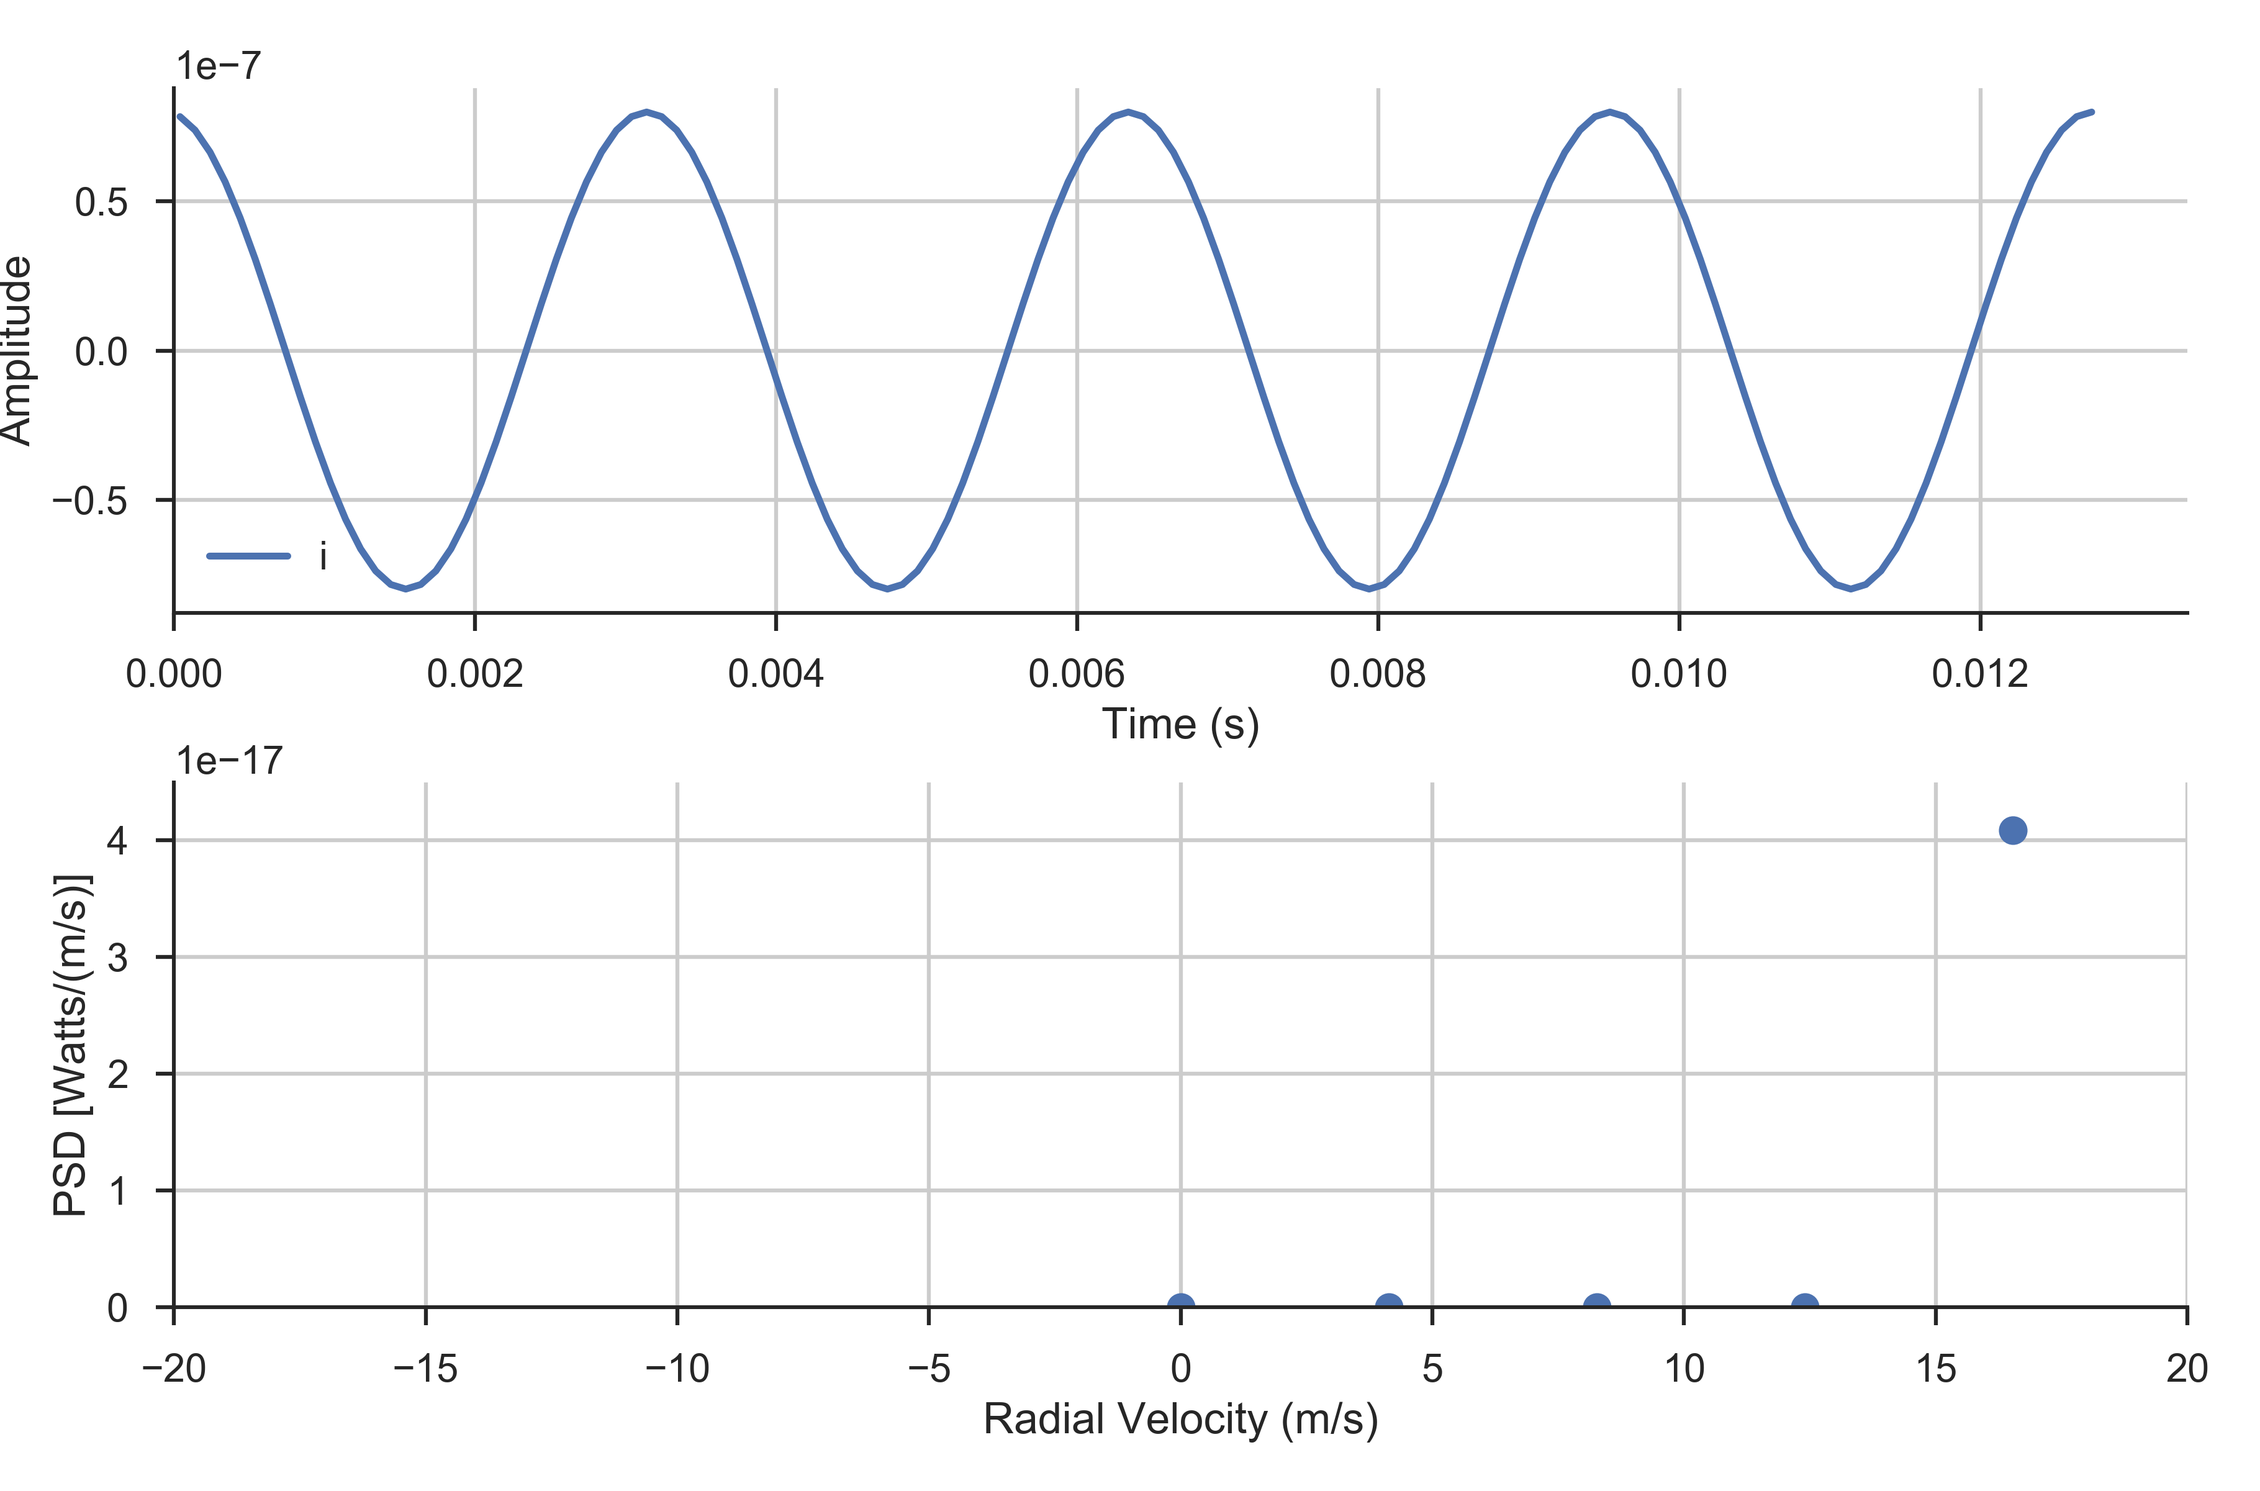
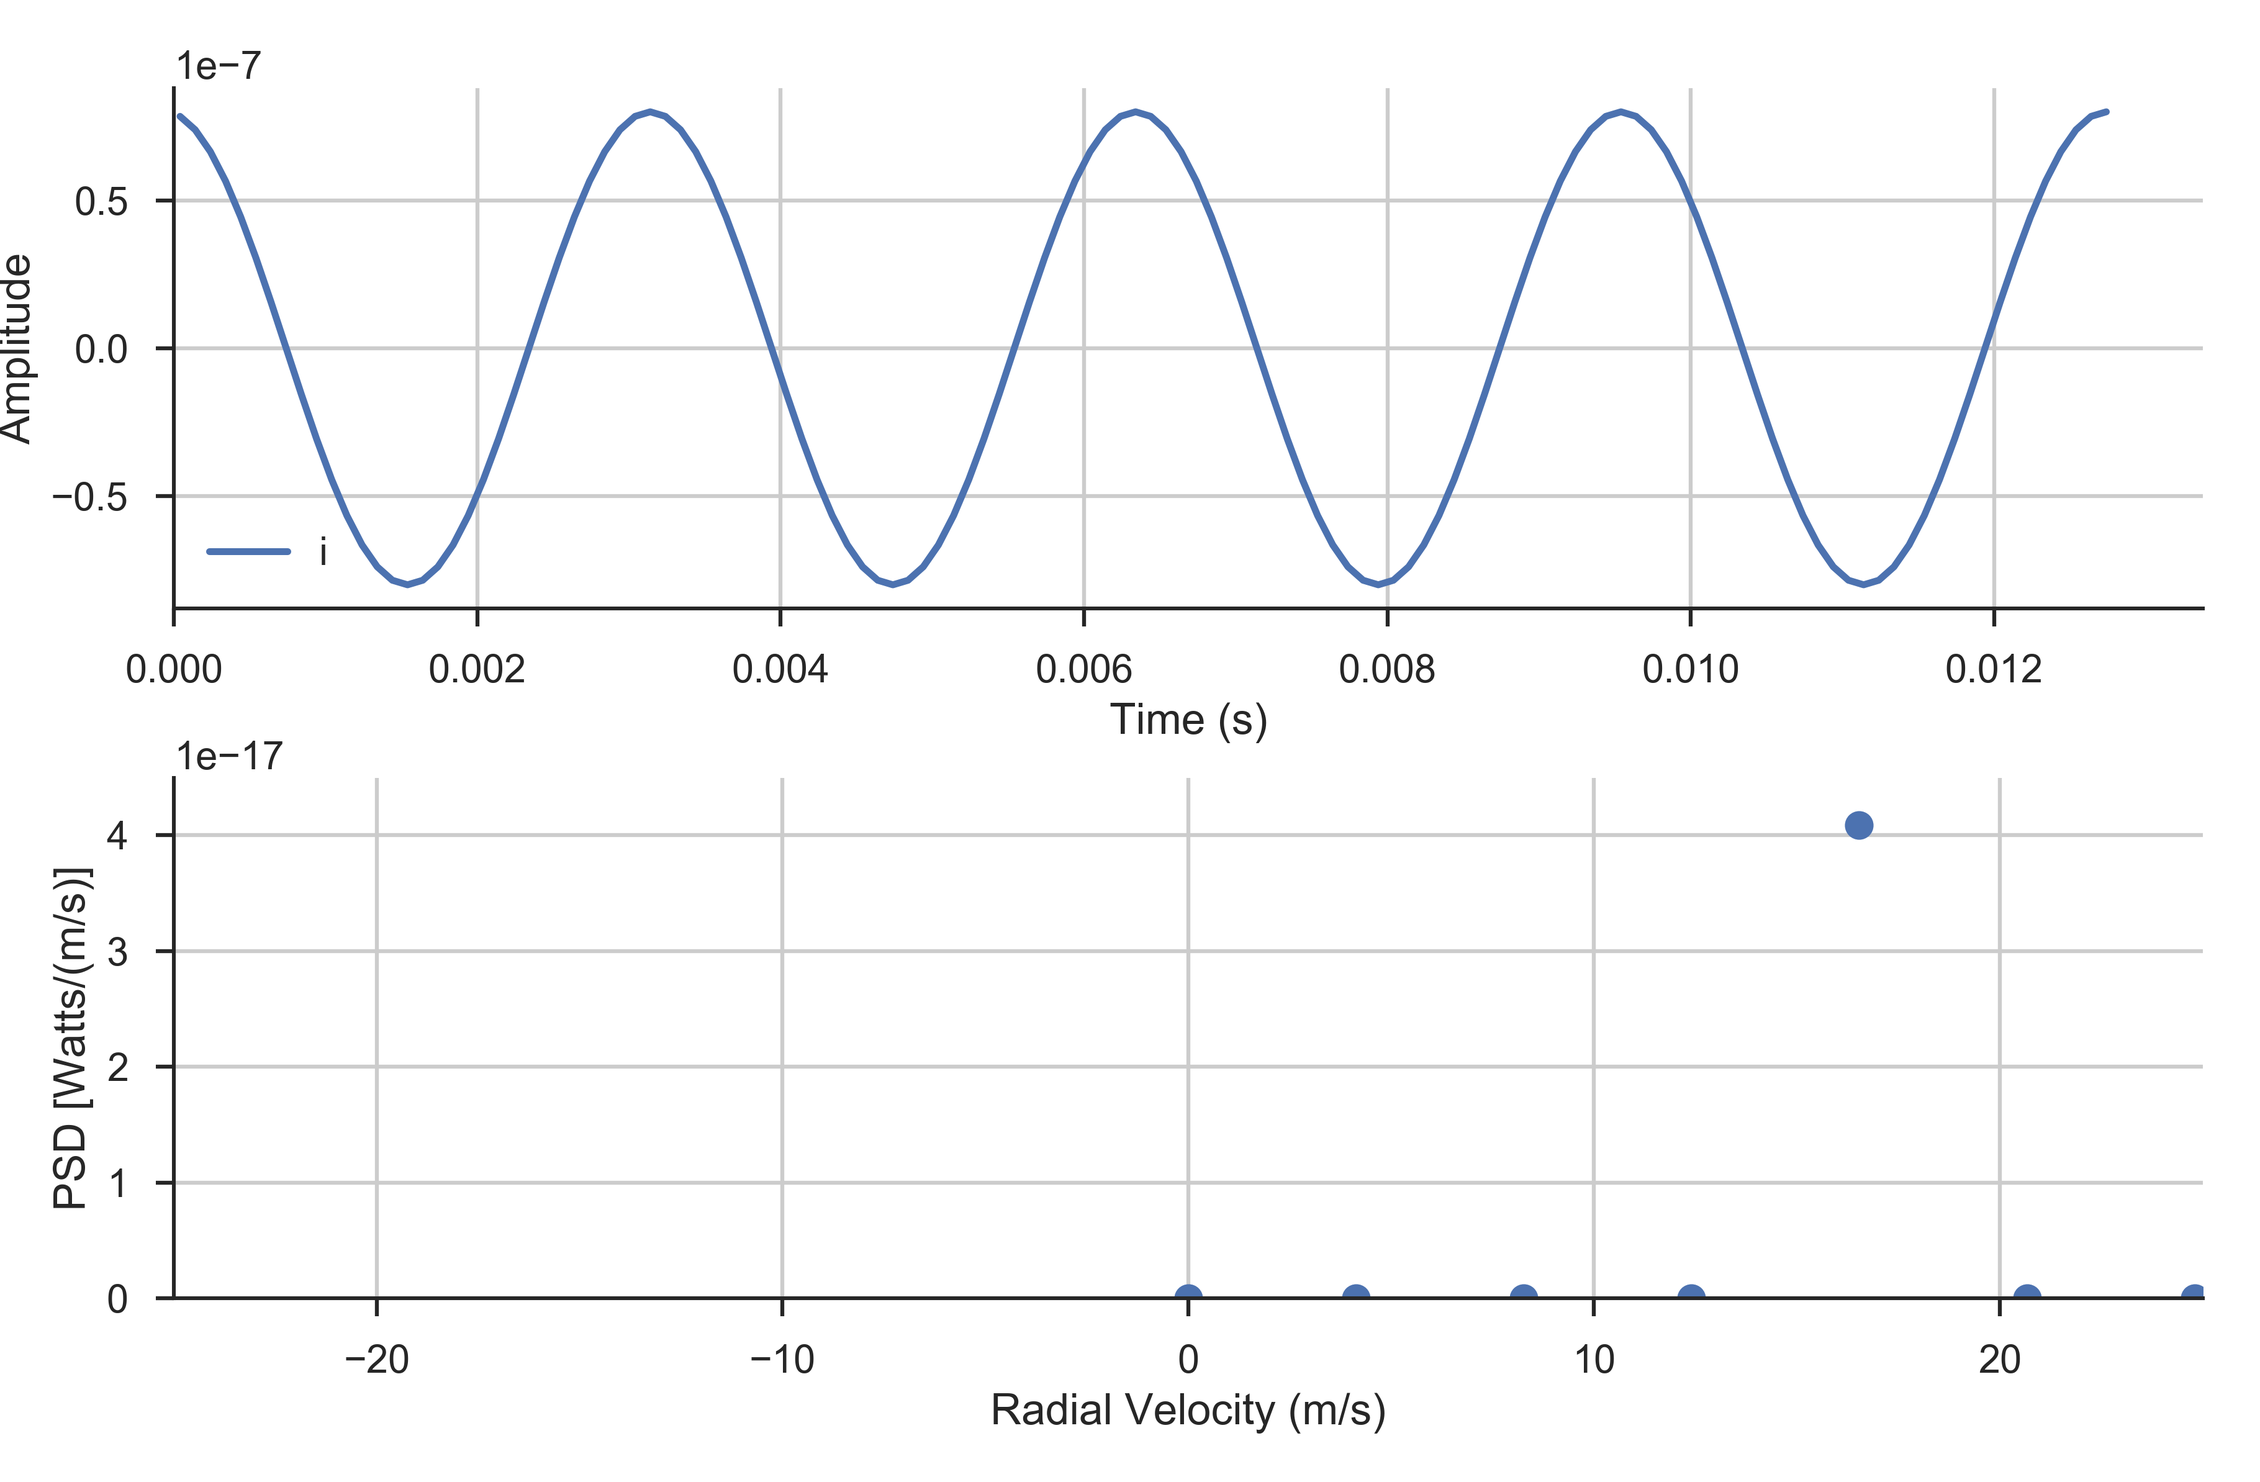
Update Sim

diff --git a/main.py b/main.py
@@ -11,102 +11,126 @@ import numpy as np
 import helperFunctions
 from modelAttributes import radarVals, targetVals, simulationAttributes, \
                             initialValues, calculateValues, linear2db, \
-                            db2linear, finalValues
+                            db2linear, finalValues, chiNoise, expNoise
 
 # Create text file with initial conditions
 # helperFunctions.initattributes2text(radarVals, targetVals, initialValues)
 # Initialize first target location
-targetLocation = targetVals.initPosition().v
-gateArr = np.zeros((int(simulationAttributes.runtime/radarVals.tIpp().v),
-                        radarVals.totGates().v))
-
-# Initialize time, index
-time = 0
-i = 0
-nPts = 128
-ptNum = 0
-
-# Initialize arrays to store simulator data
-# transLength = int(2 + simulationAttributes.runtime / radarVals.tIpp().v)
-transLength = nPts * radarVals.numIntegrate().v
-transmitArr = np.zeros((transLength))
-sampleArr = np.zeros((radarVals.totGates().v, transLength))
-snrArr = np.zeros((radarVals.totGates().v, transLength))
-arrivalTimeArr = np.zeros((transLength))
-targetRangeArr = np.zeros((transLength))
-returnPowerArr = np.zeros((transLength))
-trueRadialVelArr = np.zeros((transLength))
-radialVelFromSNR = np.zeros((transLength))
-iOut = np.zeros((nPts))
-qOut = np.zeros((nPts))
-integrateTime = np.zeros((nPts))
-
-cohereTrack = 0
-noiseOn = True
-
-# Main method to perform simulation
-# while time <= simulationAttributes.runtime + radarVals.tIpp().v:
-while ptNum < nPts:
-    cohereTrack = 0
-    iIntegrate = np.zeros((radarVals.numIntegrate().v))
-    qIntegrate = np.zeros((radarVals.numIntegrate().v))
-    integrateTimeArr = np.zeros((radarVals.numIntegrate().v))
-    while cohereTrack < radarVals.numIntegrate().v:
-        # Update Target position, return time, and return power
-        targetLocation = calculateValues.findPosition(targetLocation).v
-        returnTime = calculateValues.expectedTime(targetLocation).v
-        returnPower = calculateValues.findPower(targetLocation).v
-        targetRange = np.linalg.norm(targetLocation)
-        
-        if noiseOn == True:
-            returnPower += chiNoise(1, 2e-14, 4)
-
-        # Store transmit, arrival times, and power
-        transmitArr[i] = time
-        arrivalTimeArr[i] = returnTime
-        targetRangeArr[i] = targetRange
-        returnPowerArr[i] = linear2db(returnPower) + 30  # dBm
+def runSimulation(numIntegrate, attackAngle, noiseOn):
+    # Initialize time, index
+    time = 0
+    i = 0
+    nPts = 128
+    ptNum = 0
     
-        # Store coherent integration information
-        iIntegrate[cohereTrack] = np.sqrt(returnPower) * np.cos(
-                                    - 2 * targetRange * (radarVals.wavenumber().v))
-        qIntegrate[cohereTrack] = np.sqrt(returnPower) * np.sin(
-                                    - 2 * targetRange * (radarVals.wavenumber().v))  
-        integrateTimeArr[cohereTrack] = time + returnTime
+    targetLocation = targetVals.initPosition().v
+    gateArr = np.zeros((int(simulationAttributes.runtime/radarVals.tIpp().v),
+                        radarVals.totGates().v))
+    # Initialize arrays to store simulator data
+    # transLength = int(2 + simulationAttributes.runtime / radarVals.tIpp().v)
+    transLength = nPts * numIntegrate
+    transmitArr = np.zeros((transLength))
+    sampleArr = np.zeros((radarVals.totGates().v, transLength))
+    snrArr = np.zeros((radarVals.totGates().v, transLength))
+    arrivalTimeArr = np.zeros((transLength))
+    targetRangeArr = np.zeros((transLength))
+    returnPowerArr = np.zeros((transLength))
+    trueRadialVelArr = np.zeros((transLength))
+    radialVelFromSNR = np.zeros((transLength))
+    iOut = np.zeros((nPts))
+    qOut = np.zeros((nPts))
+    integrateTime = np.zeros((nPts))
+    cohereTrack = 0
+    
+    # Main method to perform simulation
+    # while time <= simulationAttributes.runtime + radarVals.tIpp().v:
+    while ptNum < nPts:
+        cohereTrack = 0
+        iIntegrate = np.zeros((numIntegrate))
+        qIntegrate = np.zeros((numIntegrate))
+        integrateTimeArr = np.zeros((numIntegrate))
+        while cohereTrack < numIntegrate:
+            # Update Target position, return time, and return power
+            targetLocation = calculateValues.findPosition(targetLocation, attackAngle).v
+            returnTime = calculateValues.expectedTime(targetLocation).v
+            returnPower = calculateValues.findPower(targetLocation).v
+            targetRange = np.linalg.norm(targetLocation)
+            
+            if noiseOn == True:
+                returnPower += chiNoise(1, 2e-14, 4)
+    
+            # Store transmit, arrival times, and power
+            transmitArr[i] = time
+            arrivalTimeArr[i] = returnTime
+            targetRangeArr[i] = targetRange
+            returnPowerArr[i] = linear2db(returnPower) + 30  # dBm
+        
+            # Store coherent integration information
+            iIntegrate[cohereTrack] = np.sqrt(returnPower) * np.cos(
+                                        - 2 * targetRange * (radarVals.wavenumber().v))
+            qIntegrate[cohereTrack] = np.sqrt(returnPower) * np.sin(
+                                        - 2 * targetRange * (radarVals.wavenumber().v))  
+            integrateTimeArr[cohereTrack] = time + returnTime
+    
+            if noiseOn == True:
+                iIntegrate[cohereTrack] += expNoise(1, 2e-14)
+                qIntegrate[cohereTrack] += expNoise(1, 2e-14)
+    
+            # Timing of gates relative to when pulse is sent (length =  #gates + 1)
+            gateTimeArray = radarVals.gateTimeIntervalArray().v
+    
+            # Find gate indx of return pulse,
+            gateLocation = (gateTimeArray >= returnTime) * \
+                           (gateTimeArray < returnTime + radarVals.pulseWidth().v)
+            gateIndx = np.where(gateLocation > 0)
+    
+            # Store return power in appropriate bins
+            sampleArr[gateIndx[0] - 1, i] = returnPower
+            snrArr[gateIndx[0] - 1, i] = finalValues.finalSNR(returnPower).v
+    
+            # Increase time by interpulse period
+            time += radarVals.tIpp().v
+            i += 1
+            cohereTrack += 1
+    
+        iOut[ptNum] = np.mean(iIntegrate)
+        qOut[ptNum] = np.mean(qIntegrate)
+        integrateTime[ptNum] = np.mean(integrateTimeArr)
+    
+        ptNum += 1
 
-        if noiseOn == True:
-            iIntegrate[cohereTrack] += expNoise(1, 2e-14)
-            qIntegrate[cohereTrack] += expNoise(1, 2e-14)
+    print("Initial Position %f, %f m" %(targetVals.initPosition().v[0], targetVals.initPosition().v[1] ))
+    print("Final Position %f, %f m" %(targetLocation[0], targetLocation[1] ))
+    print("Time on Target: %f s" %time)
 
-        # Timing of gates relative to when pulse is sent (length =  #gates + 1)
-        gateTimeArray = radarVals.gateTimeIntervalArray().v
-
-        # Find gate indx of return pulse,
-        gateLocation = (gateTimeArray >= returnTime) * \
-                       (gateTimeArray < returnTime + radarVals.pulseWidth().v)
-        gateIndx = np.where(gateLocation > 0)
-
-        # Store return power in appropriate bins
-        sampleArr[gateIndx[0] - 1, i] = returnPower
-        snrArr[gateIndx[0] - 1, i] = finalValues.finalSNR(returnPower).v
-
-        # Increase time by interpulse period
-        time += radarVals.tIpp().v
-        i += 1
-        cohereTrack += 1
-
-    iOut[ptNum] = np.mean(iIntegrate)
-    qOut[ptNum] = np.mean(qIntegrate)
-    integrateTime[ptNum] = np.mean(integrateTimeArr)
-
-    ptNum += 1
+    return integrateTime, iOut, qOut, returnPowerArr
 
 #### ===== Make Plots for pt3 q2 ===== ####
-print("Initial Position %f, %f m" %(targetVals.initPosition().v[0], targetVals.initPosition().v[1] ))
-print("Final Position %f, %f m" %(targetLocation[0], targetLocation[1] ))
-print("Time on Target: %f s" %time)
-# helperFunctions.generatePt3q2Figures(integrateTime, iOut, qOut, returnPowerArr, 'recede')
-# helperFunctions.generatePt3q3Figures(integrateTime, iOut, qOut, 1/radarVals.tIpp().v, radarVals.wavelength().v, 'approach')
+
+# Run question 1 #
+print("Running Question 1")
+helperFunctions.generatePt3q1Figures()
+
+# Run Question 2 #
+print("Running Question 2 approach and recede")
+integrateTime, iOut, qOut, returnPowerArr = runSimulation(1, 270, False)
+helperFunctions.generatePt3q2Figures(integrateTime, iOut, qOut, returnPowerArr, 'approach')
+integrateTime, iOut, qOut, returnPowerArr = runSimulation(1, 90, False)
+helperFunctions.generatePt3q2Figures(integrateTime, iOut, qOut, returnPowerArr, 'recede')
+
+# Run Question 3 #
+print("# ==== Running Question 3 approach and recede ==== #")
+integrateTime, iOut, qOut, returnPowerArr = runSimulation(1, 270, False)
+helperFunctions.generatePt3q3Figures(integrateTime, iOut, qOut, 1/radarVals.tIpp().v, radarVals.wavelength().v, [-25, 25], 1,'approach')
+integrateTime, iOut, qOut, returnPowerArr = runSimulation(1, 90, False)
+helperFunctions.generatePt3q3Figures(integrateTime, iOut, qOut, 1/radarVals.tIpp().v, radarVals.wavelength().v, [-25,25], 1, 'recede')
+integrateTime, iOut, qOut, returnPowerArr = runSimulation(5, 270, False)
+helperFunctions.generatePt3q3Figures(integrateTime, iOut, qOut, 1/radarVals.tIpp().v, radarVals.wavelength().v, [-25, 25], 5, 'recede_ncoh5')
+
+# Run Question 4 #
+print("# ==== Running Question 4 approach and recede ==== #")
+integrateTime, iOut, qOut, returnPowerArr = runSimulation(1, 90, True)
+
 helperFunctions.generatePt3q4Figures(integrateTime, iOut, qOut, 1/radarVals.tIpp().v, radarVals.wavelength().v, 'recede')
 
 '''

diff --git a/helperFunctions.py b/helperFunctions.py
@@ -152,7 +152,7 @@ def generatePt3q2Figures(arrivalTimeArr, iOut, qOut, powerMeas, saveInfo):
     sns.set_context('talk')
     sns.set_style('ticks')
     ax = plt.subplot(111)
-    plt.plot(iOut, qOut)
+    plt.plot(iOut[0:20], qOut[0:20])
     plt.xlabel('I')
     plt.ylabel('Q')
     plt.grid()
@@ -164,6 +164,7 @@ def generatePt3q2Figures(arrivalTimeArr, iOut, qOut, powerMeas, saveInfo):
     ax.get_yaxis().get_major_formatter().set_useOffset(False)
     ax.get_xaxis().get_major_formatter().set_useOffset(False)
     ax.set_aspect('equal', 'datalim')
+    plt.title('Phasor diagram (bursts 1-20)')
     plt.savefig('./Figures/hw3q2_fig2_%s.png'%saveInfo, dpi=350)
     plt.close()
     
@@ -188,7 +189,7 @@ def generatePt3q2Figures(arrivalTimeArr, iOut, qOut, powerMeas, saveInfo):
     plt.savefig('./Figures/hw3q2_fig3_%s.png'%saveInfo, dpi=350)
     plt.close()
 
-def makePeriodogram(saveName, velocity, Pxx_den, transmitArr, iOut, qOut, plotQ):
+def makePeriodogram(saveName, velocity, Pxx_den, transmitArr, iOut, qOut, xlims, plotQ):
         # Generate figure
         sns.set_context('talk')
         sns.set_style('ticks')
@@ -200,7 +201,8 @@ def makePeriodogram(saveName, velocity, Pxx_den, transmitArr, iOut, qOut, plotQ)
         ax.xaxis.set_ticks_position('bottom')
         ax.spines['right'].set_color('none')
         ax.yaxis.set_ticks_position('left')
-        plt.xlim(-20, 20)
+        plt.xlim(xlims[0], xlims[1])
+        print(np.max(Pxx_den))
         plt.ylim(np.min(Pxx_den), 1.1 * np.max(Pxx_den))
         plt.xlabel('Radial Velocity (m/s)')
         plt.ylabel('PSD [Watts/(m/s)]')
@@ -224,18 +226,18 @@ def makePeriodogram(saveName, velocity, Pxx_den, transmitArr, iOut, qOut, plotQ)
 
 
 def generatePt3q3Figures(transmitArr, iOut, qOut, samplingFreq, 
-                         wavelength, saveInfo):
+                         wavelength, xlims, numIntegrate, saveInfo):
 
     # Calculate periodogram
     realPlusI = iOut[:] + 1j * qOut[:]
-    f1, Pxx_realPlusI = signal.periodogram(realPlusI, samplingFreq)
-    f2, Pxx_I = signal.periodogram(iOut, samplingFreq)
+    f1, Pxx_realPlusI = signal.periodogram(realPlusI, samplingFreq / numIntegrate)
+    f2, Pxx_I = signal.periodogram(iOut, samplingFreq / numIntegrate )
     velocity1 = (f1 * wavelength) / 2  # radial velocity
     velocity2 = (f2 * wavelength) / 2  # radial velocity    
     makePeriodogram('hw3q3_fig1_%s'%saveInfo, velocity1,
-                    Pxx_realPlusI, transmitArr, iOut, qOut, plotQ= True)
+                    Pxx_realPlusI, transmitArr, iOut, qOut, xlims, plotQ= True)
     makePeriodogram('hw3q3_fig2_%s'%saveInfo, velocity2,
-                    Pxx_I, transmitArr, iOut, qOut, plotQ = False)
+                    Pxx_I, transmitArr, iOut, qOut, xlims, plotQ = False)
 
 
 def generatePt3q4Figures(transmitArr, iOut, qOut, samplingFreq, 
@@ -247,9 +249,9 @@ def generatePt3q4Figures(transmitArr, iOut, qOut, samplingFreq,
     velocity1 = (f1 * wavelength) / 2  # radial velocity
     velocity2 = (f2 * wavelength) / 2  # radial velocity    
     makePeriodogram('hw3q4_fig1_%s'%saveInfo, velocity1,
-                    Pxx_realPlusI, transmitArr, iOut, qOut, plotQ= True)
+                    Pxx_realPlusI, transmitArr, iOut, qOut, [-20, 20], plotQ= True)
     makePeriodogram('hw3q4_fig2_%s'%saveInfo, velocity2,
-                    Pxx_I, transmitArr, iOut, qOut, plotQ = False)
+                    Pxx_I, transmitArr, iOut, qOut, [-20, 20], plotQ = False)
 
     
     

diff --git a/modelAttributes.py b/modelAttributes.py
@@ -212,7 +212,7 @@ class targetVals:
             self.nameString = "Target speed"
             self.units = "m/s"
 
-    class attackAngle:
+    class approachAngle:
         def __init__(self):
             self.v = 90
             self.nameString = "Target angle of attack"
@@ -286,11 +286,11 @@ class  calculateValues:
             self.units = 's'
     
     class findPosition:
-        def __init__(self,  previousLocation):
+        def __init__(self,  previousLocation, attackAngle):
             targetGradient = [np.cos(degrees2radians(
-                                        targetVals.attackAngle().v)),
+                                        attackAngle)),
                               np.sin(degrees2radians(
-                                      targetVals.attackAngle().v))]
+                                      attackAngle))]
         
             x_target = previousLocation[0] + \
                         targetGradient[0] * targetVals.targetSpeed().v * \
